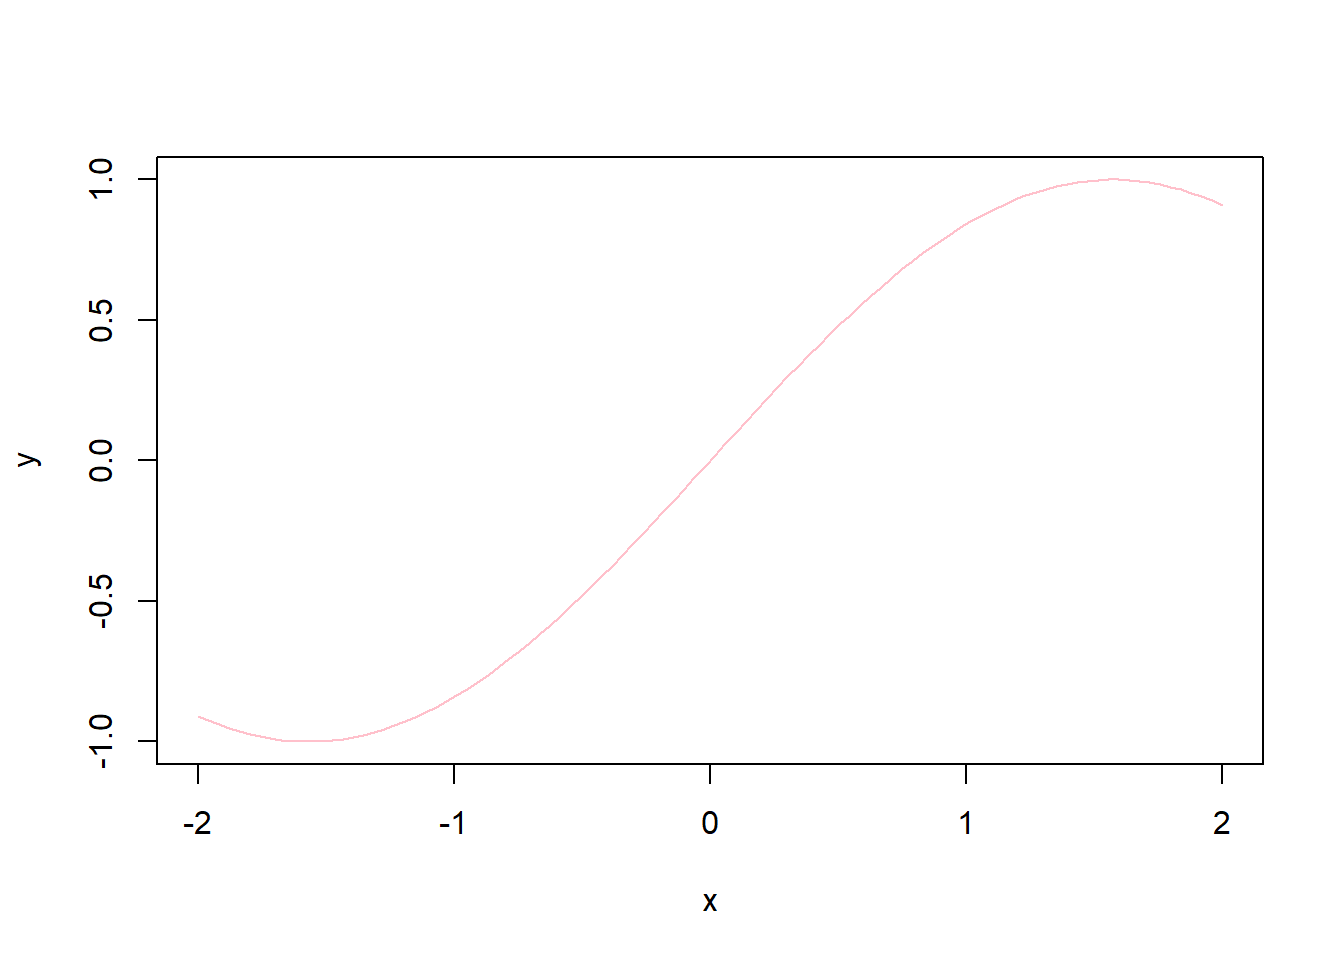
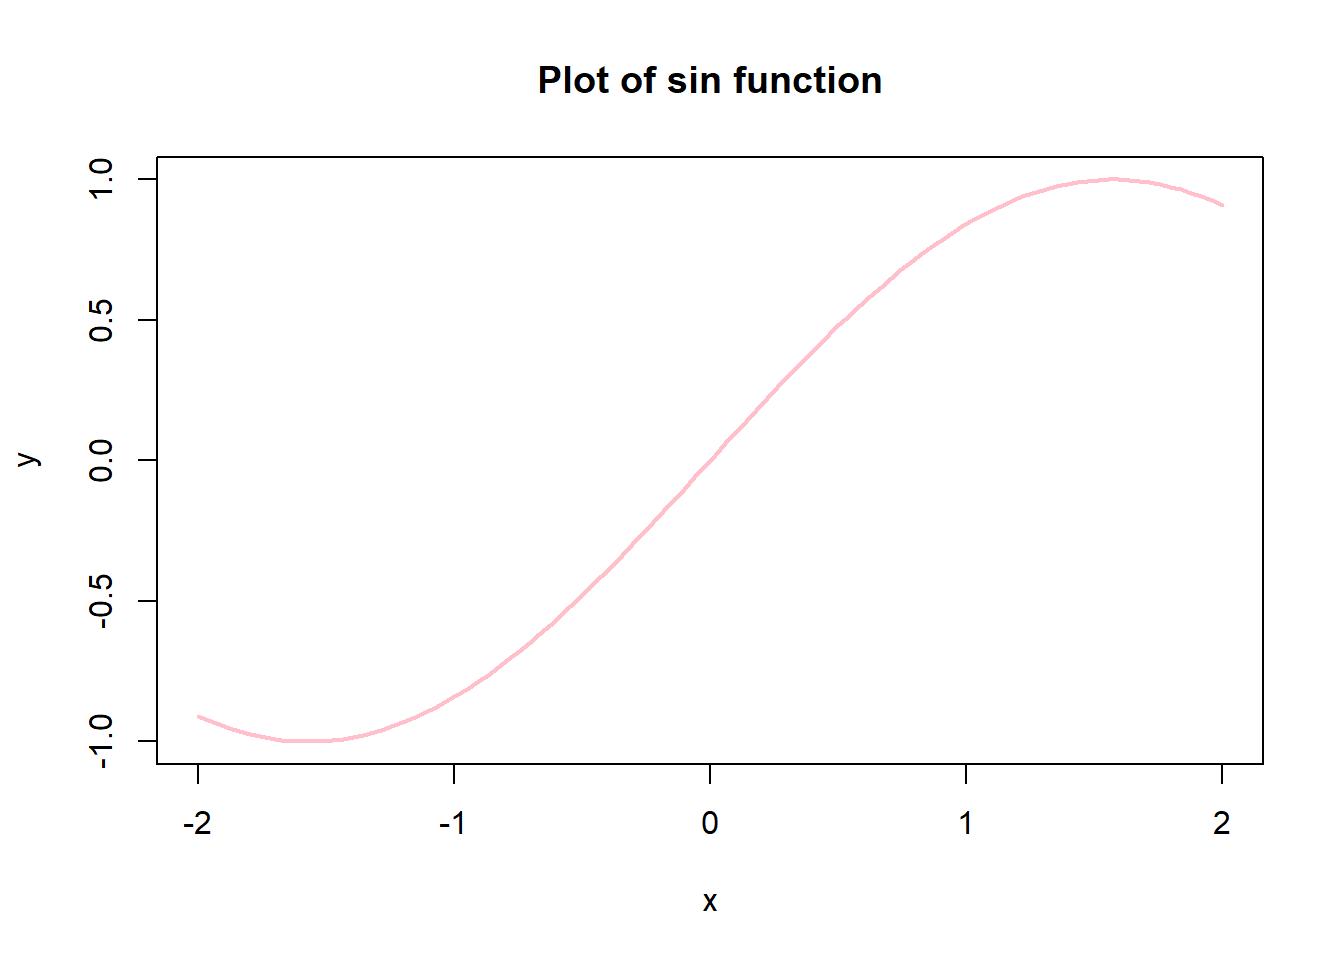
Updated Day 3

Changed region(s): [[0.375, 0.0625, 0.6562, 0.0938]]

diff --git a/Day3_Practicals/Day3-Practicals.html b/Day3_Practicals/Day3-Practicals.html
@@ -206,7 +206,7 @@ Coefficients:
 <div class="code-copy-outer-scaffold"><div class="sourceCode cell-code" id="cb11"><pre class="sourceCode r code-with-copy"><code class="sourceCode r"><span id="cb11-1"><a href="#cb11-1" aria-hidden="true" tabindex="-1"></a>x <span class="ot">&lt;-</span> <span class="fu">seq</span>(<span class="sc">-</span><span class="dv">2</span>,<span class="dv">2</span>, <span class="at">length.out =</span> <span class="dv">100</span>)</span>
 <span id="cb11-2"><a href="#cb11-2" aria-hidden="true" tabindex="-1"></a>y <span class="ot">&lt;-</span> <span class="fu">sin</span>(x)</span>
 <span id="cb11-3"><a href="#cb11-3" aria-hidden="true" tabindex="-1"></a></span>
-<span id="cb11-4"><a href="#cb11-4" aria-hidden="true" tabindex="-1"></a><span class="fu">plot</span>(x, y, <span class="at">type =</span> <span class="st">"l"</span>, <span class="at">col =</span> <span class="st">"pink"</span>)</span></code></pre></div><button title="Copy to Clipboard" class="code-copy-button"><i class="bi"></i></button></div>
+<span id="cb11-4"><a href="#cb11-4" aria-hidden="true" tabindex="-1"></a><span class="fu">plot</span>(x, y, <span class="at">type =</span> <span class="st">"l"</span>, <span class="at">col =</span> <span class="st">"pink"</span>, <span class="at">lwd =</span> <span class="dv">2</span>, <span class="at">main =</span> <span class="st">"Plot of sin function"</span>)</span></code></pre></div><button title="Copy to Clipboard" class="code-copy-button"><i class="bi"></i></button></div>
 <div class="cell-output-display">
 <div>
 <figure class="figure">
